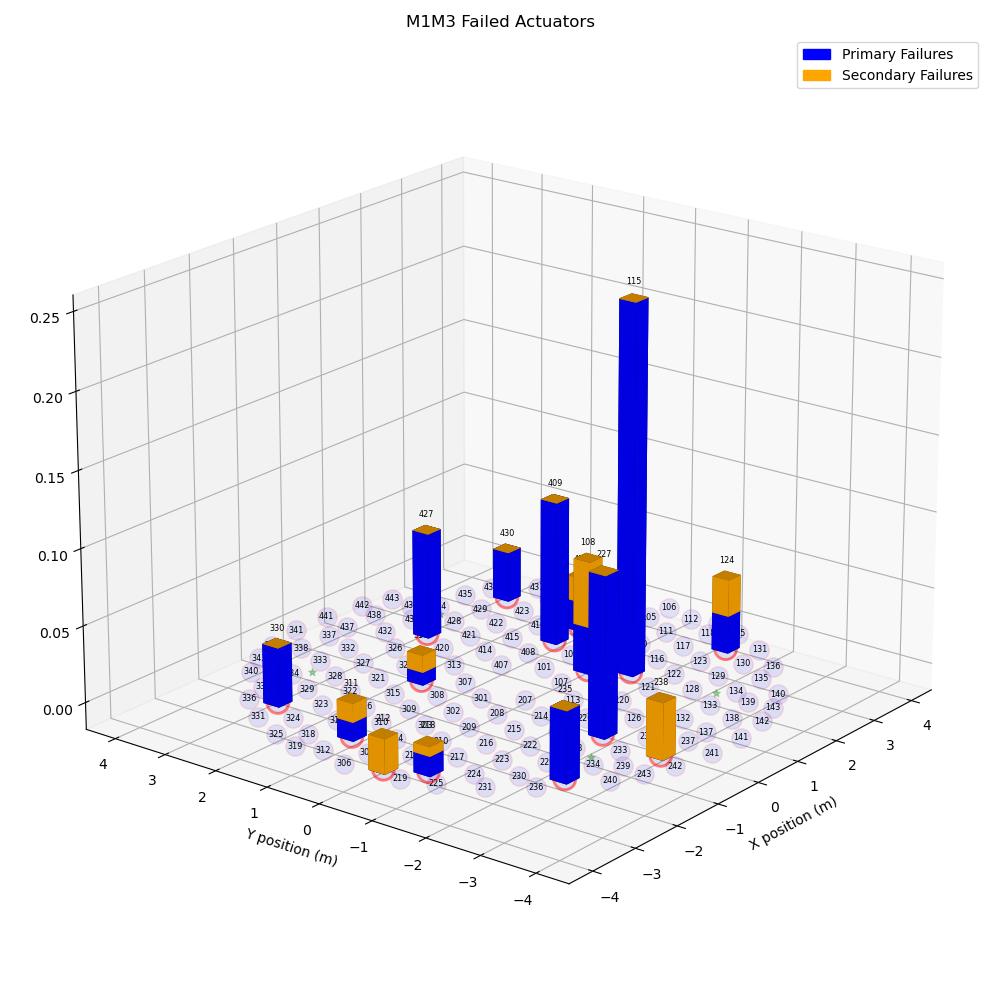
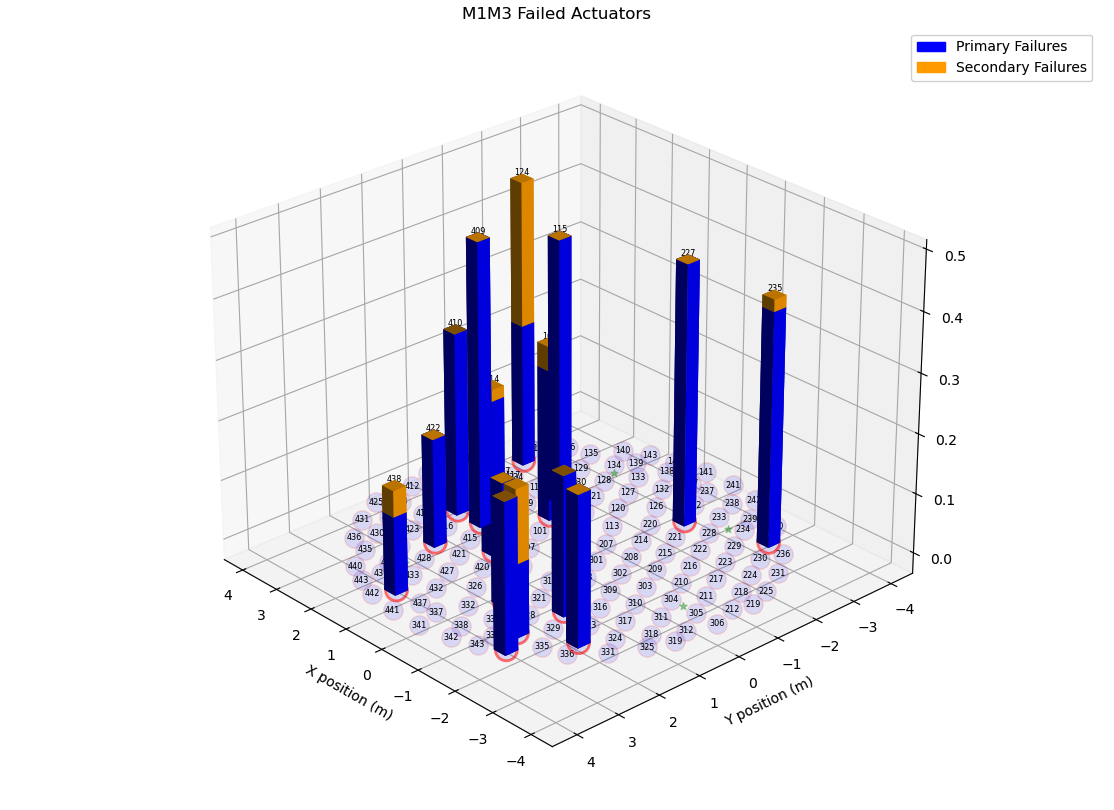
Update bump test analysis with aboslute frequency of failures.

diff --git a/index.rst b/index.rst
@@ -18,13 +18,15 @@ Introduction
 ================
 The M1M3 mirror cell supports the weight of the M1M3 primary mirror for the Simonyi telescope.  The 17 tons of mirror are supported by 156 pneumatic actuators where 44 are single-axis and provide support only in the axial direction (parallel to the telescope optical axis), 100 are dual-axis providing support in the axial and lateral direction, and 12 are dual-axis providing support in the axial and cross lateral directions.  Figures 1 and 2 show the locations of the actuators.  Figure 2 shows the actuator types.  Note that most of the dual-axis actuators apply force in the +Y direction.  This is because this is the force needed to support the weight of the mirror as the telescope tilts to lower elevations.
 
-.. image:: ./_static/Actuators.png
+.. figure:: ./_static/Actuators.png
+   :alt: Actuator locations
 
-Figure 1.  A screenshot of the MTM1M3 GUI, showing the actuator locations and IDs.
+   A screenshot of the MTM1M3 GUI, showing the actuator locations and IDs.
 
-.. image:: ./_static/Actuator_Types.png
+.. figure:: ./_static/Actuator_Types.png
+   :alt: Actuator types
 
-Figure 2. This figure shows the actuator types.
+   This figure shows the actuator types.
 
 
 Positioning is provided by 6 hard points in a hexapod configuration which moves the mirror to a fixed operational position that shall be maintained during telescope operations. The remaining optical elements will be moved relative to this position in order to align the telescope optics. Support and optical figure correction is provided by the pneumatic actuators.
@@ -37,13 +39,15 @@ Bump Test Overview
 
 During the bump test, perturbations of about 200 N are applied to the actuators for a few seconds.  Figure 3 shows the target forces to be applied, and Figure 4 shows the actual measured forces.
 
-.. image:: ./_static/Bump_Test_Target.png
+.. figure:: ./_static/Bump_Test_Target.png
+   :alt: Target forces
 
-Figure 3.  This shows the target forces to be applied to the actuators during the bump test of a single actuator.
+   This shows the target forces to be applied to the actuators during the bump test of a single actuator.
 
-.. image:: ./_static/Bump_Test_Results.png
+.. figure:: ./_static/Bump_Test_Results.png
+   :alt: Actual measured forces
 
-Figure 4. This shows the actual measured forces applied by the actuators during the bump test of a single actuator
+   This shows the actual measured forces applied by the actuators during the bump test of a single actuator
 
 
 Bump Test Indexing
@@ -78,7 +82,7 @@ The actuators are numbered sequentially from 0-155.  The secondary cylinders and
   actuator_id_to_index(135) : 34
   actuator_id_to_index(135, FAIndex.X): 2
 
-Table1: Navigating between actuator IDs and sequential indices.
+Table 1: Navigating between actuator IDs and sequential indices.
 
 Bump Test States
 ==================================
@@ -90,24 +94,26 @@ As the bump test cycles through the testing, the EFD location:
 
 returns where in the bump test cycle the test is.  Figure 5 shows the progression of these states.  At the conclusion of the test for each actuator, the state will either be 6 (PASSED) or 7 (FAILED).  the pass-fail criteria are described later in the "Bump Test Following Errors" section.
 
-.. image:: ./_static/Bump_Test_States.png
+.. figure:: ./_static/Bump_Test_States.png
+   :alt: Bump test states
 
-Figure 5. This shows the bump test states as logged in  lsst.sal.MTM1M3.logevent_forceActuatorBumpTestStatus.
+   This shows the bump test states as logged in `lsst.sal.MTM1M3.logevent_forceActuatorBumpTestStatus`.
+
 
 Finding Individual Bump Tests
 ==============================
 
 When a bump test is finished, it keeps publishing the status (either PASSED or FAILED) until the next bump test is started.
-From diagram above, a bump test is considered to be successful if it follows the sequence of states as shown in Figure 5: 
+From the diagram above, a bump test is considered to be successful if it follows the sequence of states as shown in Figure 5: 
 
-|
-|  "NOTTESTED"-> "TESTINGPOSITIVE"->"TESTINGPOSITIVEWAIT"-> "TESTINGNEGATIVE"->"TESTINGNEGATIVEWAIT"-> "PASSED". 
-|
+::
+
+  "NOTTESTED" -> "TESTINGPOSITIVE" -> "TESTINGPOSITIVEWAIT" -> 
+  -> "TESTINGNEGATIVE" -> "TESTINGNEGATIVEWAIT" -> "PASSED" 
+
 
 If the sequence is broken at any point, the test is considered to have failed. 
-
-
-
+We used that information to find the start and end of each bump test, and then obtain absolute statistics for the rate of failures (Sec. :ref:`Trouble-makers`).  
 
 XYZ forces vs Cylinder forces
 ==============================
@@ -115,28 +121,32 @@ XYZ forces vs Cylinder forces
 The force data in the EFD includes both the forces applied to the primary and secondary cylinders, as well as the forces in the X, Y, and Z directions.  The X, Y, and Z directions are in the mirror coordinate system, as described in this link (https://confluence.lsstcorp.org/pages/viewpage.action?pageId=47220348). The cylinder forces and the X, Y, Z forces are not the same, as will be explained in this section.  Referring to Figure 6, we see that the primary cylinder applies force in the axial direction, which is along the optical axis of the telescope, and is referred to as the Z direction.  So the force applied by the primary cylinder is equal to the Z-force.  The secondary cylinder however, is at a 45 degree angle to the Z-axis.  So if we want to apply a force in the lateral direction (X or Y), we need to apply a force with the secondary cylinder, and then a negative force with the primary cylinder so that the resultant is in the lateral direction.
 As the angle of the secondary cylinder is 45 degrees, transforming mirror coordinate systems forces into secondary cylinder is (mirror_force) / sqrt(2). Assume Z and Y Dual Axis Actuator (DAA) should produce Z force +10 N, and Y +25 N. Then the primary cylinder force would be 10 - (25 * sqrt(2)) N, and secondary cylinder force would be 25 * sqrt(2) N.
 
-.. image:: ./_static/Force_Schematic.png
-
-Figure 6. This schematic of the actuators shows the relation between the cylinder forces and the resulting axial and lateral forces.
+.. figure:: ./_static/Force_Schematic.png
+   :alt: Force schematic
+   
+   This schematic of the actuators shows the relation between the cylinder forces and the resulting axial and lateral forces.
 
 The primary and secondary forces are what is actually measured, and the X, Y, and Z forces are calculated from these forces and the known geometry.  So Figures 3 and 4 show the Y and Z forces.  Figures 7 and 8 show the target and actual forces in the primary and secondary cylinders.  Note the negative primary force being applied during the secondary bump test.
 
-.. image:: ./_static/Bump_Test_Cylinder_Target.png
+.. figure:: ./_static/Bump_Test_Cylinder_Target.png
+   :alt: Target forces
+   
+   This shows the target forces to be applied to the primary and secondary actuators during the bump test of a single actuator.
 
-Figure 7.  This shows the target forces to be applied to the primary and secondary actuators during the bump test of a single actuator.
+.. figure:: ./_static/Bump_Test_Cylinder_Results.png
+   :alt: Actual measured forces
 
-.. image:: ./_static/Bump_Test_Cylinder_Results.png
-
-Figure 8. This shows the actual measured forces applied by the primary and secondary actuators during the bump test of a single actuator
+   This shows the actual measured forces applied by the primary and secondary actuators during the bump test of a single actuator
 
 Bump Test Following Errors
 ==============================
 
 We can also plot the bump test following errors, which are the difference between the target force and the actual measured force.  The actuator is not able to follow the step function in the applied force, so there is large spike in the following error after a change in the target force.  For this reason, the plot in Figure 9 uses the "symlog" scale, which is linear between -10 N and +10 N, and log above +/-10 N.  This allows one to see the errors in the relatively flat region of the test, which is most important.
 
-.. image:: ./_static/Bump_Test_Following_Errors_112.png
-
-Figure 9. Bump test following errors. The dotted vertical line shows where the pass/fail decision is made (SettleTime below).  If this is within the red lines (Error below), then the bump test passes.
+.. figure:: ./_static/Bump_Test_Following_Errors_112.png
+   :alt: Bump test following errors
+   
+   Bump test following errors. The dotted vertical line shows where the pass/fail decision is made (SettleTime below).  If this is within the red lines (Error below), then the bump test passes.
 
 The levels and times for the absolute value of the following error are specified in M1M3 SS CSC configuration file (ts_config_mttcs/MTM1M3/v1/_init.yaml):
 
@@ -155,40 +165,36 @@ The levels and times for the absolute value of the following error are specified
 Where non-tested mean all other Force Actuators (FAs)s (the algorithm checks if all other except for tested cylinder doesn't show significant force), tested are error and warning levels for cylinder being tested. The algorithm waits up to SettleTime seconds to see "Measurements" number of measured absolute values dropping below errorr level for FA to pass the test. If measured values venture above "warning" level, but stay within "error" level, a warning is sent into the M1M3 log.
 
 
+.. _Trouble-makers:
 
 Trouble makers
 ==============
 
-In order to determine which actuators causes more trouble, we calculated the rate of failures for all Bump Tests available in the efd to the date.
-The results are shown in Figure 10. At this point, we are interested in knowing the relative frequency of failures, which will give us an idea of
-the actuators with the highest rate of failures when compared to the total number of failures.
+In order to determine which actuators causes more trouble, we calculated the rate of failures for all Bump Tests available in the efd to the date, before glass installation.
+In Figure 10, we show the absolute frequency of failures over the total executed bump test for each actuator. 
+Note that secondary actuators fail mostly in the Y direction, with only actuator 235 having a failure in the X direction (it has been replaced since then).
 
-.. image:: ./_static/histogram_frequency_of_failures.png
+.. figure:: ./_static/histogram_frequency_of_failures.png
+   :alt: Total frequency of failures with spatial distribution of the actuators.
 
-Figure 10. Frequency of failures with spatial distribution of the actuators. The direction of the Secondary failures are shown in orange on top of the corresponding bar.
-As stated above, Primary actuators will always have failures in the Z direction.
+   Total frequency of failures with spatial distribution of the actuators. 
+   The direction of the Secondary failures are shown in orange on top of the corresponding bar along with the total failures *versus* the total number of bump tests executed.
+   As stated above, Primary actuators will always have failures in the Z direction.
 
 
-The Figure 11 shows the same result as the histogram from Figure 10, but now highlighting the spatial distribution of the actuators with the relative frequency of failures.
+Figure 11 shows the same result as the histogram from Figure 10, but now highlighting the spatial distribution of the actuators with the relative frequency of failures.
 It shows that no quadrant has more failures than the others.
-However, the actuators with the highest failure rate seem to be located towards the inner half of the M1M3 mirror,
-with a tendency to be along the +X TMA axis. Secondary failures seem to be more concentrated towards the -Y TMA axis direction.
 
-.. image:: ./_static/layout_frequency_of_failures.png
+.. figure:: ./_static/layout_frequency_of_failures.png
+   :alt: Distribution of the relative frequency of failures.
 
-Figure 11. Distribution of the relative frequency of failures.
+   Distribution of the relative frequency of failures.
 
-At this time (November 2023), we do not have the full set of Bump Tests available in the efd.
-Therefore, the results shown above are not representative of the full history of the M1M3 Bump Tests.
-In a separate analysis, we will look at the full history of the Bump Tests, taking into account that a few actuators have been replaced over the past 1-2 years.
-
-In this follow-up analysis, we will look at the absolute frequency of failures, which will tell us how often a given actuator fails a Bump Test.
-We will also track the individual history of each actuator (based on position), comparing its behavior before and after any replacements.
 
 Types of bump test failures
 ==============================
 
-David Sanmartim has written code to find and characterize all of the bump test failures between 2023-11-01 and 2024-01-15.  The nights between 2023-11-09 and 2023-12-12 were omitted because there were some unexplained failures.  This represents 164 different bump test failures. Table 2 shows the type of information available from the EFD.  Figures 12, 13, 14, and 15 show different ways to look at the failures.  Table 3 also shows high-level statistics of all of the bump test failures.
+David Sanmartim has written code to find and characterize all of the bump test failures between 2023-11-01 and 2024-01-15.  The nights between 2023-11-09 and 2023-12-12 were omitted because there were some unexplained failures.  This represents 164 different bump test failures. Table 2 shows the type of information available from the EFD.  Figures 12, 13, 14, and 15 show different ways to look at the failures.
 
 In the data directory of this technote is a set of plots of all of the bump test failures, labeled Bump_Test_Failures_01Apr24.pdf.
  
@@ -207,29 +213,46 @@ In the data directory of this technote is a set of plots of all of the bump test
 
 Table 2: Information on bump test failures in the EFD
 
-.. image:: ./_static/absolute_measured_forces_with_age_of_error.png
+.. figure:: ./_static/absolute_measured_forces_with_age_of_error.png
+   :alt: Absolute Measured Forces by FA ID
+   
+   Absolute Measured Forces by FA ID.
 
-Figure 12. Absolute Measured Forces by FA ID.
+.. figure:: ./_static/average_deviation_with_dispersion_and_colorbar.png
+   :alt: Average Deviation with Dispersion by Actuator ID and Error Type.
 
-.. image:: ./_static/average_deviation_with_dispersion_and_colorbar.png
+   Average Deviation with Dispersion by Actuator ID and Error Type.
 
-Figure 13. Average Deviation with Dispersion by Actuator ID and Error Type.
+.. figure:: ./_static/absolute_measured_force_over_time.png
+   :alt: Absolute Measured Force for Failed Actuators.
 
-.. image:: ./_static/absolute_measured_force_over_time.png
-
-Figure 14. Absolute Measured Force for Failed Actuators.
-
-.. image:: ./_static/Bump_Test_Failures_12May24.png
-
-Figure 15. Bump test failure types, 2023-11-01 to 2024-01-15.
+   Absolute Measured Force for Failed Actuators.
 
 
- * actual force overshoot compared to the demanded force: about 23%
- * actual force undershoot compared to the demanded force: about 74%
- * excessive latency of the actual force compared to the demanded force: None seen
- * locked/constant force independent of demand: about 6%
+From Figs. 11, 12 and 13 we can summarize that: 
 
-Table 3:  Statistics of bump test failure
+* The actuators are more likely to fail when they are pushing the mirror up, rather than down.
+  The magnitudes of the deviations tend also to be larger for forces applied in the positive direction.
+
+* The actuators that failed the bump test are not getting worse over time,
+  as the measured forces don't follow any specific trend over time.
+
+* Actuators that pass the bump test would also need to publish/report the measured forces in the EFD,
+  so we can monitor them overtime and catch possible failures before they actually happen.
+
+The figure below have a summary of the bump test failure types:
+
+.. figure:: ./_static/Bump_Test_Failures_12May24.png
+   :alt: Bump test failure types
+   
+   Bump test failure types, 2023-11-01 to 2024-01-15.
+
+High-level statistics of all of the bump test failures:
+
+* actual force overshoot compared to the demanded force: about 23%.
+* actual force undershoot compared to the demanded force: about 74%.
+* excessive latency of the actual force compared to the demanded force: None seen.
+* locked/constant force independent of demand: about 6%.
 
 
 Summary
